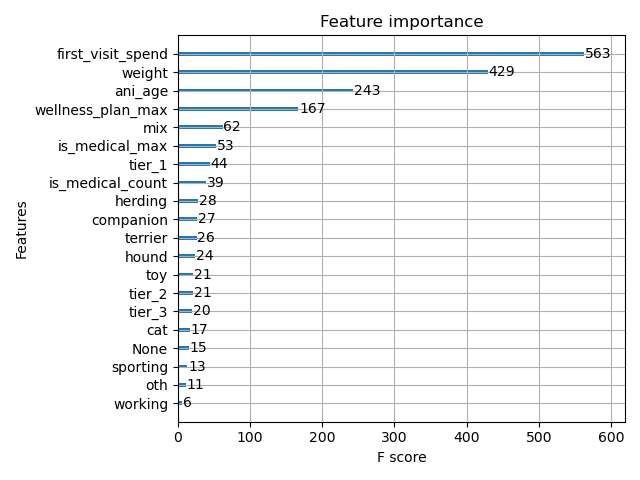
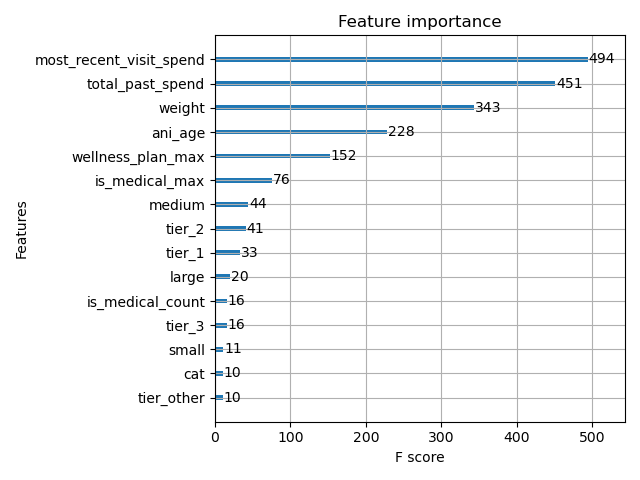
Predict was being fed empty data due to complications with filling nans for weight.

diff --git a/customer_retention/prod/xgboost/customer_retention_pred.py b/customer_retention/prod/xgboost/customer_retention_pred.py
@@ -7,8 +7,9 @@ from dotenv import find_dotenv, load_dotenv
 import mlflow
 import os
 import xgboost as xgb
+import mlflow.xgboost
 import sys
-sys.path.append('/')
+sys.path.append(os.getcwd())
 from customer_retention.util.breed_identifier import BreedIdentifier
 
 load_dotenv(find_dotenv())
@@ -28,6 +29,9 @@ class CustomerRetentionPred():
 
         if isinstance(df, str):
             return print(df)
+
+        # Find mean weight of animals to inject if weight is NA
+        df = self.fill_in_weight(df, db)
 
         # Return dog Breed
         df = self.dog_breed(df, db)
@@ -189,6 +193,40 @@ class CustomerRetentionPred():
             return f"No new patients to be processed with visit number {visit_number}"
         return df
 
+    @staticmethod
+    def fill_in_weight(df: pd.DataFrame, db: DBManager) -> pd.DataFrame:
+        sql = """select x.breed
+                         , x.baby
+                         , avg(weight) as weight
+                    from (
+                             select breed
+                                  , date((convert_timezone('utc', 'america/chicago',
+                                                           timestamp 'epoch' +
+                                                           (a.date_of_birth) * interval '1 second'))) as dob
+                                  , datediff(year, dob, current_date)                                    animal_age
+                                  , case
+                                        when animal_age <= 1 then 'baby'
+                                        else 'adult'
+                                 end                                                                  as baby
+                                  , weight
+                             from bi.animals a
+                                      join bi.transactions t
+                                           on a.id = t.animal_id) x
+                    group by 1, 2;"""
+        df_weight = db.get_sql_dataframe(sql)
+
+        df['weight'] = df['weight'].fillna(0)
+        df_w_weight = df[df.weight > 0]
+        df_wo_weight = df[df.weight == 0]
+        df_wo_weight.drop(columns='weight',inplace=True)
+        df_wo_weight['baby'] = df_wo_weight['ani_age'].apply(lambda x: 'baby' if x < 1 else 'adult')
+
+        df_wo_weight = df_wo_weight.merge(df_weight, on=['breed','baby'])
+        df_wo_weight.drop(columns=['baby'], inplace=True)
+
+        df_ = pd.concat([df_w_weight, df_wo_weight], ignore_index=True)
+        return df_
+
     def dog_breed(self, df, db):
         df_breed = db.get_sql_dataframe("select * from bi.breeds")
         breed = set(df.breed.unique().tolist())
@@ -204,7 +242,7 @@ class CustomerRetentionPred():
             return df1
 
     @staticmethod
-    def feature_eng(df: pd.DataFrame, objective: str) -> pd.DataFrame:
+    def feature_eng(df: pd.DataFrame, df_weight: pd.DataFrame) -> pd.DataFrame:
         df.reset_index(drop=True, inplace=True)
         df_ = df[['uid', 'ani_age', 'weight', 'product_group', 'breed_size', 'tier', 'is_medical',
                    'wellness_plan', 'total_future_spend','most_recent_visit_spend', 'total_past_spend','max_num_visit']]
@@ -236,10 +274,10 @@ class CustomerRetentionPred():
 
         # look into a binary indicator for weight
         df_cont['ani_age'] = df_cont['ani_age'].fillna((df_cont['ani_age'].mean()))
-        df_cont['weight'] = df_cont['weight'].replace(0, np.nan)
+
         df_cont['weight'] = df_cont.groupby(['ani_age', 'breed_size'])['weight'].transform(
             lambda x: x.fillna(x.mean()))
-        df_cont['weight'] = df_cont.groupby(['breed_size'])['weight'].transform(lambda x: x.fillna(x.mean()))
+
 
         df_cont = df_cont.groupby(['uid', 'ani_age', 'weight', 'total_future_spend',
                                    'most_recent_visit_spend', 'total_past_spend','max_num_visit'],
@@ -269,10 +307,11 @@ class CustomerRetentionPred():
 
     @staticmethod
     def pull_best_model_and_predict(df_orig: pd.DataFrame,  visit_number: int):
+        mlflow.get_experiment_by_name('visit_' + str(visits_number))
         # pull the best, most recent model
         models = mlflow.search_runs(order_by=["metrics.Precision_Binary DESC", "attribute.start_time DESC"])
-        run_id = models.iloc[0]['run_id']
         model = mlflow.xgboost.load_model(models.loc[0]['artifact_uri']+'/model')
+        mlflow.xgboost.load_model(models.loc[0]['artifact_uri']+'/model')
         final_columns = list(df_orig.columns)
         for i in ['uid','total_future_spend','max_num_visit']:
             final_columns.remove(i)

diff --git a/customer_retention/util/breed_identifier.py b/customer_retention/util/breed_identifier.py
@@ -41,16 +41,12 @@ class BreedIdentifier():
         large = ['Greyhound', 'Bernese Mountain', 'German Shepherd', 'English Foxhound', 'Otterhound', 'Komondor',
                  'Curly Coated Retriever', 'Ibizan', 'Kuvasz', 'Briard', 'Irish Red and White', 'Beauceron',
                  'Scottish Deerhound', 'Bluetick Coonhound', 'Black Russian Terrier', 'Redbone Coonhound',
-                 'Spinone Italiano',
-                 'Tibetan Mastiff', 'Belgian Sheepdog', 'Pointer', 'Anatolian Shepherd', 'Mastiff',
-                 'Black and Tan Coonhound',
-                 'Belgian Tervuren', 'Leonberger', 'Borzoi', 'Giant', 'Gordon Setter', 'Afghan Hound', 'English Setter',
+                 'Spinone Italiano', 'Tibetan Mastiff', 'Belgian Sheepdog', 'Pointer', 'Anatolian Shepherd', 'Mastiff',
+                 'Black and Tan Coonhound', 'Belgian Tervuren', 'Leonberger', 'Borzoi', 'Giant', 'Gordon Setter', 'Afghan Hound', 'English Setter',
                  'Bouvier des Flandres', 'Greater Swiss Mountain Dog', 'Irish Wolfhound German', 'Wirehaired Pointer',
                  'Belgian Malinois', 'Great Pyrenees', 'Irish Setter', 'Cane Corso', 'Alaskan Malamute',
-                 'Saint Bernard',
-                 'Bloodhound', 'Akita', 'Chesapeake Bay Retriever', 'Rhodesian Ridgeback', 'Newfoundland',
-                 'Bullmastiff',
-                 'Collie', 'American English Coonhound', 'Weimaraner', 'Mastiff', 'Great Dane',
+                 'Saint Bernard','Bloodhound', 'Akita', 'Chesapeake Bay Retriever', 'Rhodesian Ridgeback', 'Newfoundland',
+                 'Bullmastiff','Collie', 'American English Coonhound', 'Weimaraner', 'Mastiff', 'Great Dane',
                  'German Shorthaired Pointer',
                  'Doberman Pinscher', 'Rottweiler', 'mountain', 'doberman', 'husky', 'german sheperd', 'Vizsla',
                  'bernard', 'lab', 'golden', 'large', 'primo carnera', 'retriever mix', 'blackmouth cur',
@@ -87,19 +83,13 @@ class BreedIdentifier():
                  'Havanese', 'Cocker Spaniel', 'Pembroke Welsh Corgi', 'Maltese', 'Cavalier King Charles Spaniel',
                  'Pomeranian', 'Chihuahua', 'Shih Tzu', 'Dachshund', 'Yorkshire Terrier', 'Norwegian Lundehund',
                  'Sealyham Terrier', 'Sussex Spaniel', 'Glen of Imaal Terrier', 'Swedish Vallhund',
-                 'Parson Russell Terrier',
-                 'Skye Terrier', 'Dandie Dinmont Terrier', 'Affenpinscher', 'Lakeland Terrier', 'Bedlington Terrier',
+                 'Parson Russell Terrier', 'Skye Terrier', 'Dandie Dinmont Terrier', 'Affenpinscher', 'Lakeland Terrier', 'Bedlington Terrier',
                  'Petit Basset', 'Griffon Vendeen', 'English Toy Spaniel', 'Miniature Bull Terrier',
-                 'Australian Terrier',
-                 'Norfolk Terrier', 'Manchester Terrier', 'American Eskimo Dog', 'Tibetan Spaniel',
-                 'Smooth Fox Terrier',
-                 'Cesky Terrier', 'Schipperke', 'Toy Fox Terrier', 'Wire Fox Terrier', 'Welsh Terrier',
-                 'Norwich Terrier',
-                 'Tibetan Terrier', 'Silky Terrier', 'Border Terrier', 'Japanese Chin', 'Brussels Griffon',
-                 'Italian Greyhound',
-                 'Lhasa Apso', 'Chinese Crested', 'Cairn Terrier', 'Scottish Terrier', 'Shiba Inu',
-                 'Miniature Pinscher','doxen',
-                 'Papillon', 'Shetland Sheepdog', 'Miniature Schnauzer', 'Beagle', 'Shi Zu','min pin',
+                 'Australian Terrier', 'Norfolk Terrier', 'Manchester Terrier', 'American Eskimo Dog', 'Tibetan Spaniel',
+                 'Smooth Fox Terrier', 'Cesky Terrier', 'Schipperke', 'Toy Fox Terrier', 'Wire Fox Terrier', 'Welsh Terrier',
+                 'Norwich Terrier','Tibetan Terrier', 'Silky Terrier', 'Border Terrier', 'Japanese Chin', 'Brussels Griffon',
+                 'Italian Greyhound','Lhasa Apso', 'Chinese Crested', 'Cairn Terrier', 'Scottish Terrier', 'Shiba Inu',
+                 'Miniature Pinscher','doxen','Papillon', 'Shetland Sheepdog', 'Miniature Schnauzer', 'Beagle', 'Shi Zu','min pin',
                  'king charles', 'rat', 'Bruxellois', 'morkie','chug']
         other_animal = ['bird', 'cotton tail bunny']
         cat = ['cat', 'siamese', 'domestic short', 'tortie', 'dsh', 'dhs', 'american shorthair', 'american longhair','sem-longhair',

diff --git a/customer_retention/prod/xgboost/customer_retention_train.py b/customer_retention/prod/xgboost/customer_retention_train.py
@@ -5,6 +5,7 @@ from cbcdb import DBManager
 from dotenv import load_dotenv, find_dotenv
 import matplotlib.pyplot as plt
 import mlflow
+import mlflow.xgboost
 import os
 from sklearn.model_selection import train_test_split
 from sklearn.metrics import mean_squared_error, explained_variance_score, r2_score, f1_score, recall_score, \
@@ -323,8 +324,8 @@ class CustomerRetentionTrain():
     def mlflow_metrics(self, bst, y_test, y_pred):
         ax = xgb.plot_importance(bst)
         ax.figure.tight_layout()
-        ax.figure.savefig('customer_retention/dev/xgboost/artifacts/feature_importance.png')
-        mlflow.log_artifact("customer_retention/dev/xgboost/artifacts/feature_importance.png")
+        ax.figure.savefig('customer_retention/artifacts/feature_importance.png')
+        mlflow.log_artifact("customer_retention/artifacts/feature_importance.png")
         plt.close()
 
         # mlflow.xgboost.log_model(bst,
